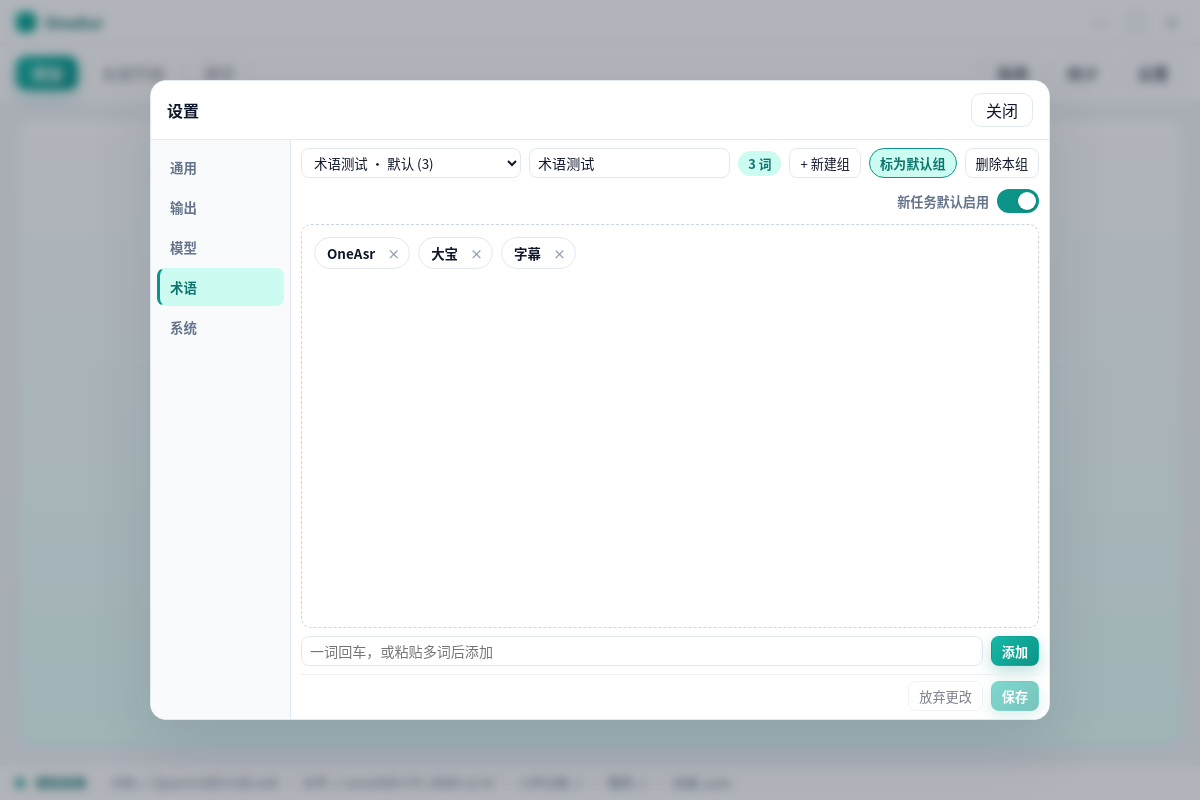
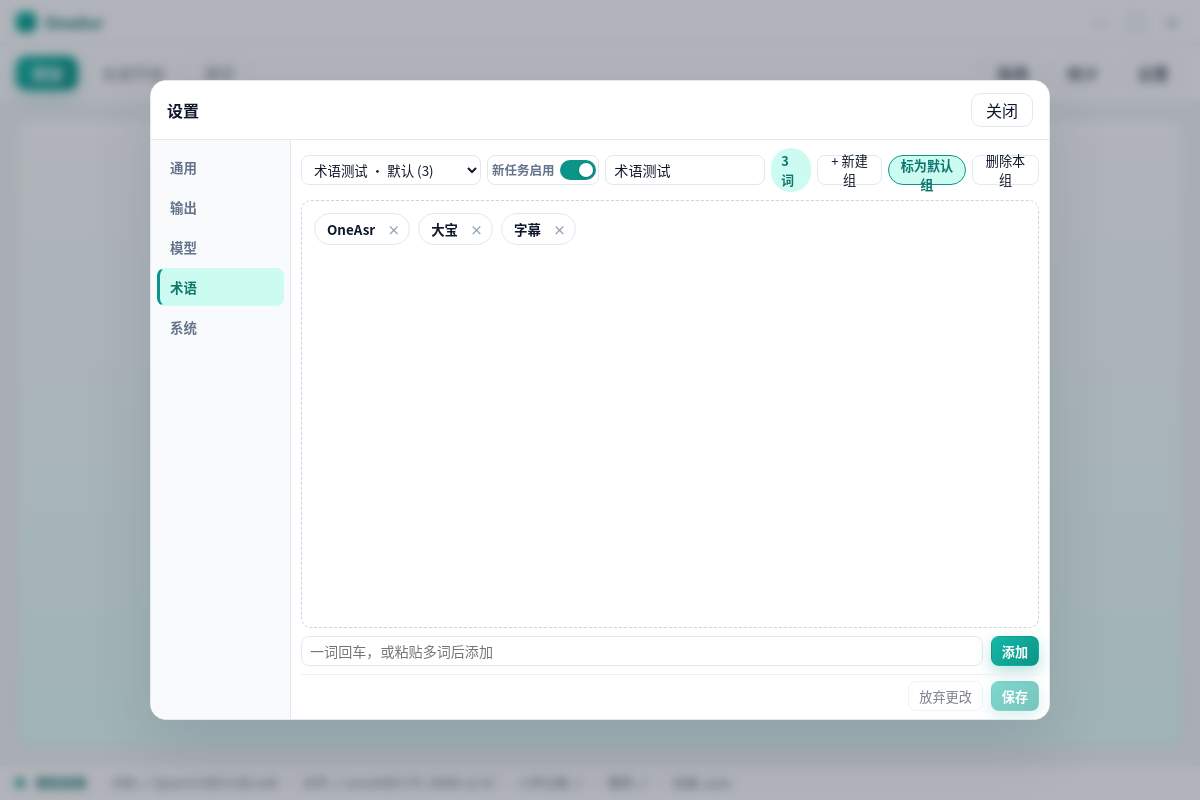
fix(electron): hotword default as compact label by group select
Put a short「新任务启用」label + small toggle beside the group dropdown
so the top bar stays a single compact row.

diff --git a/apps/electron/src/renderer/src/components/HotwordPanel.tsx b/apps/electron/src/renderer/src/components/HotwordPanel.tsx
@@ -150,6 +150,24 @@ export function HotwordEditor({
             )
           })}
         </select>
+        <div className="hw-default-toggle" title={s.defaultGroup}>
+          <span className="pref-label">{s.defaultGroupShort}</span>
+          <button
+            type="button"
+            className={`toggle ${draft.default_group_enabled ? 'on' : ''}`}
+            role="switch"
+            aria-checked={draft.default_group_enabled}
+            aria-label={s.defaultGroup}
+            disabled={!group}
+            onClick={() =>
+              touch({
+                ...draft,
+                default_group_enabled: !draft.default_group_enabled,
+                default_group: draft.default_group || group?.id || null
+              })
+            }
+          />
+        </div>
         <input
           className="text-input hw-name"
           placeholder={s.groupNamePh}
@@ -206,24 +224,6 @@ export function HotwordEditor({
         >
           {s.deleteGroup}
         </button>
-        <div className="hw-default-toggle" title={s.defaultGroup}>
-          <span className="pref-label">{s.defaultGroup}</span>
-          <button
-            type="button"
-            className={`toggle ${draft.default_group_enabled ? 'on' : ''}`}
-            role="switch"
-            aria-checked={draft.default_group_enabled}
-            aria-label={s.defaultGroup}
-            disabled={!group}
-            onClick={() =>
-              touch({
-                ...draft,
-                default_group_enabled: !draft.default_group_enabled,
-                default_group: draft.default_group || group?.id || null
-              })
-            }
-          />
-        </div>
       </div>
 
       {/* Middle: chip cloud */}

diff --git a/apps/electron/src/renderer/src/styles/app.css b/apps/electron/src/renderer/src/styles/app.css
@@ -674,14 +674,14 @@ select:focus, .text-input:focus, textarea.text-input:focus {
 .hw-group-bar {
   display: flex;
   align-items: center;
-  gap: 8px;
-  flex-wrap: wrap;
+  gap: 6px;
+  flex-wrap: nowrap;
   flex-shrink: 0;
 }
 .hw-group-select {
   height: 30px;
-  min-width: 140px;
-  max-width: 220px;
+  min-width: 120px;
+  max-width: 180px;
   padding: 0 8px;
   border-radius: 8px;
   border: 1px solid var(--line);
@@ -695,9 +695,9 @@ select:focus, .text-input:focus, textarea.text-input:focus {
   outline: none;
 }
 .hw-group-bar .hw-name {
-  flex: 1;
-  min-width: 120px;
-  max-width: 220px;
+  flex: 1 1 auto;
+  min-width: 96px;
+  max-width: 160px;
 }
 .hw-group-bar .chip {
   height: 30px;
@@ -705,16 +705,32 @@ select:focus, .text-input:focus, textarea.text-input:focus {
 .hw-default-toggle {
   display: inline-flex;
   align-items: center;
-  gap: 8px;
-  margin-left: auto;
+  gap: 6px;
   flex-shrink: 0;
-  min-height: 30px;
+  height: 30px;
+  padding: 0 2px 0 4px;
+  border-radius: 8px;
+  border: 1px solid var(--line);
+  background: #fff;
 }
 .hw-default-toggle .pref-label {
-  font-size: 0.82rem;
+  font-size: 0.78rem;
   color: var(--muted);
-  font-weight: 550;
+  font-weight: 600;
   white-space: nowrap;
+}
+.hw-default-toggle .toggle {
+  width: 36px;
+  height: 20px;
+}
+.hw-default-toggle .toggle::after {
+  width: 14px;
+  height: 14px;
+  top: 3px;
+  left: 3px;
+}
+.hw-default-toggle .toggle.on::after {
+  transform: translateX(16px);
 }
 
 .hw-bottom {

diff --git a/apps/electron/src/renderer/src/i18n/index.ts b/apps/electron/src/renderer/src/i18n/index.ts
@@ -116,6 +116,7 @@ const zh = {
   addGroup: '新建组',
   deleteGroup: '删除本组',
   defaultGroup: '新任务默认启用',
+  defaultGroupShort: '新任务启用',
   setDefault: '标为默认组',
   isDefault: '默认',
   wordCount: '词',
@@ -254,6 +255,7 @@ const en: Dict = {
   addGroup: 'New group',
   deleteGroup: 'Delete group',
   defaultGroup: 'Default for new tasks',
+  defaultGroupShort: 'Auto-use',
   setDefault: 'Make default',
   isDefault: 'Default',
   wordCount: 'words',
